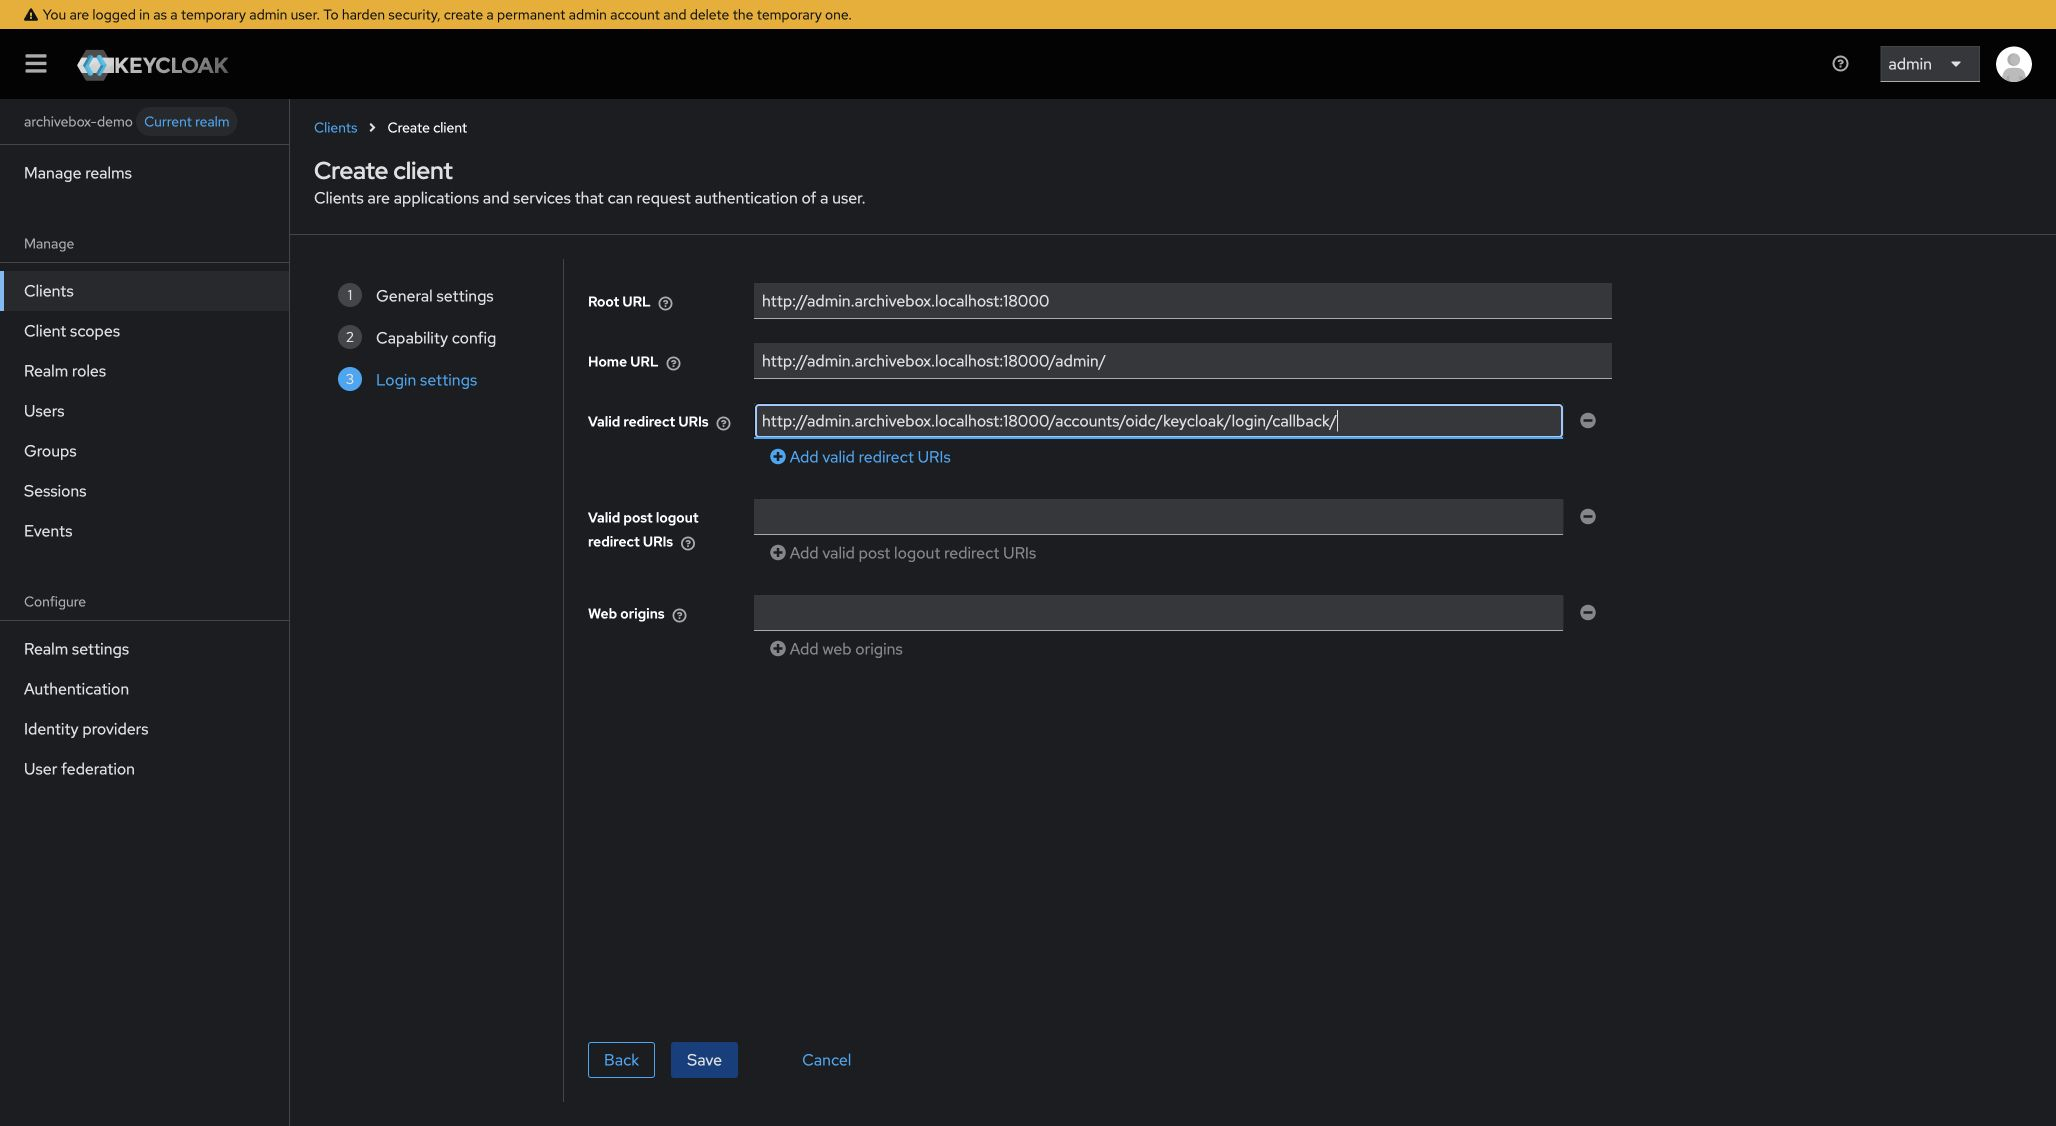
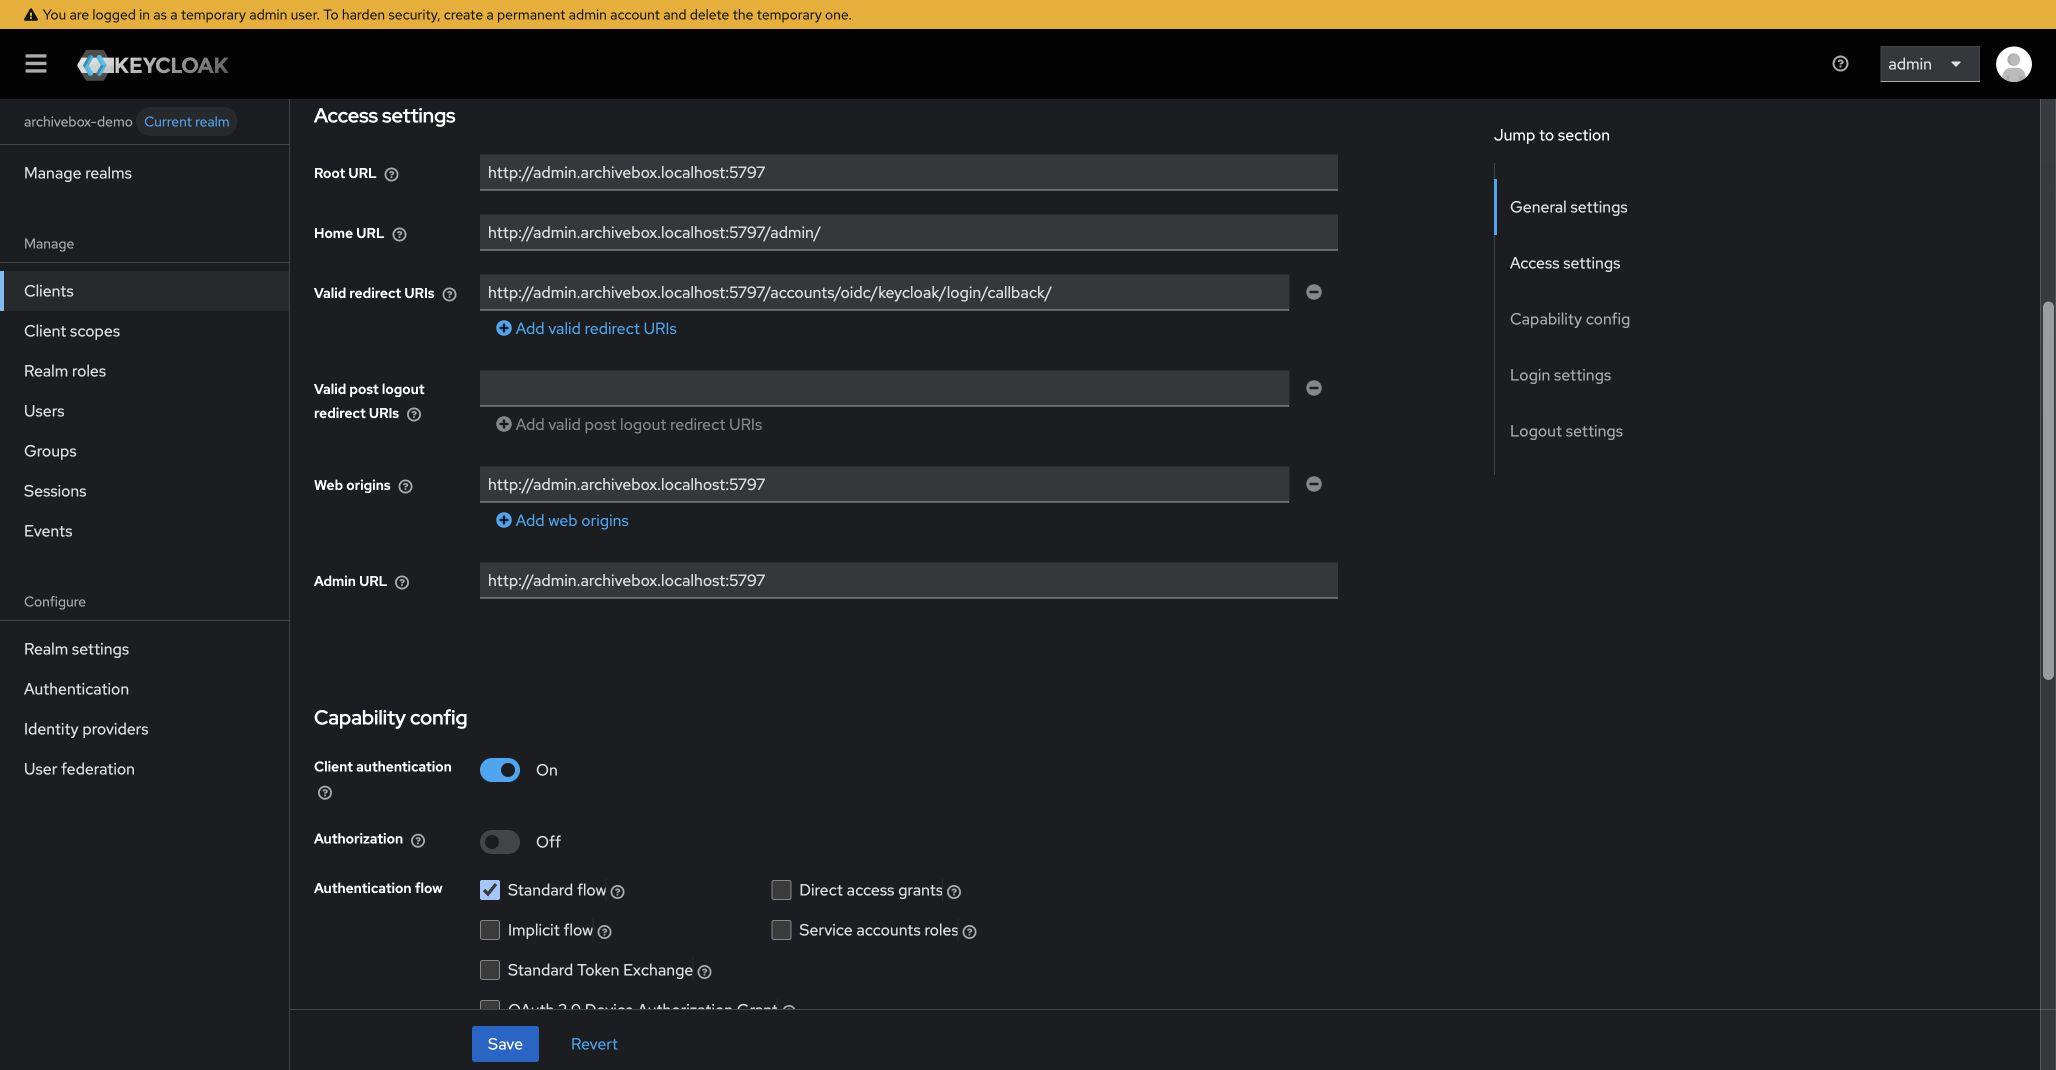
Use standard ports and document administrator-only SSO recovery

diff --git a/Setting-up-Authentication.md b/Setting-up-Authentication.md
@@ -118,7 +118,7 @@ Create a collection with `archivebox init --quick` if needed, start the server, 
 
 ![Create the first local ArchiveBox administrator](screenshots/authentication/04-first-admin.jpg)
 
-Set `BASE_URL` to your ArchiveBox address and choose `SERVER_SECURITY_MODE` before configuring your identity provider. With `safe-subdomains-fullreplay`, login uses the `admin.` subdomain. Use your server's HTTPS address wherever the instructions below show `http://admin.archivebox.localhost:18000`.
+Set `BASE_URL` to your ArchiveBox address and choose `SERVER_SECURITY_MODE` before configuring your identity provider. With `safe-subdomains-fullreplay`, login uses the `admin.` subdomain. Use your server's HTTPS address wherever the instructions below show `http://admin.archivebox.localhost:5797`.
 
 In the collection's `ArchiveBox.conf`, enable SSO and choose your enrollment policy:
 
@@ -127,11 +127,10 @@ In the collection's `ArchiveBox.conf`, enable SSO and choose your enrollment pol
 ALLAUTH_ENABLED = True
 REGISTRATION_ENABLED = True
 REGISTRATION_MODE = approval
-DEFAULT_USER_PERMISSIONS = admin
 EMAIL_VERIFICATION = none
 ```
 
-These settings require an administrator to approve each new account before it can sign in. For a closed deployment, leave `REGISTRATION_ENABLED=False` and explicitly link existing local users instead. `DEFAULT_USER_PERMISSIONS=none` creates users without admin privileges; `admin` gives new users full administration once activated. Do not combine open registration and automatic admin permissions on an unrestricted IdP.
+ArchiveBox accounts are administrators. These settings allow new SSO accounts but require an existing administrator to approve them before they can sign in. To allow only existing accounts, set `REGISTRATION_ENABLED=False` and connect each administrator's SSO identity from **Account → Connections**. Local accounts are created by an administrator; there is no public signup form.
 
 Back up an existing database before upgrading. With the same configuration/environment as the server, run `archivebox manage migrate --noinput` inside the collection, then restart the server. In Docker Compose, run `docker compose exec archivebox archivebox manage migrate --noinput`, then `docker compose restart archivebox`.
 
@@ -161,9 +160,9 @@ On **Login settings**, enter:
 
 | Field | Value |
 | --- | --- |
-| Root URL | `http://admin.archivebox.localhost:18000` |
-| Home URL | `http://admin.archivebox.localhost:18000/admin/` |
-| Valid redirect URIs | `http://admin.archivebox.localhost:18000/accounts/oidc/keycloak/login/callback/` |
+| Root URL | `http://admin.archivebox.localhost:5797` |
+| Home URL | `http://admin.archivebox.localhost:5797/admin/` |
+| Valid redirect URIs | `http://admin.archivebox.localhost:5797/accounts/oidc/keycloak/login/callback/` |
 
 Register the exact callback, including its trailing slash. Save the client, then open **Credentials** and copy the **Client Secret**.
 
@@ -183,7 +182,7 @@ Set `SOCIALACCOUNT_PROVIDERS` to the following JSON in your server environment o
       "client_id": "archivebox",
       "secret": "YOUR_CLIENT_SECRET",
       "settings": {
-        "server_url": "http://127.0.0.1:18080/realms/archivebox-demo"
+        "server_url": "http://127.0.0.1:8080/realms/archivebox-demo"
       }
     }]
   }
@@ -220,10 +219,10 @@ Create another Keycloak client with **Client type: SAML**, name `ArchiveBox SAML
 
 | Purpose | Value |
 | --- | --- |
-| Client ID / SP entity ID / metadata | `http://admin.archivebox.localhost:18000/accounts/saml/keycloak/metadata/` |
-| Valid redirect URIs | `http://admin.archivebox.localhost:18000/accounts/saml/keycloak/acs/` |
-| Master SAML Processing URL (HTTP POST ACS) | `http://admin.archivebox.localhost:18000/accounts/saml/keycloak/acs/` |
-| SLS callback, when configuring IdP logout | `http://admin.archivebox.localhost:18000/accounts/saml/keycloak/sls/` |
+| Client ID / SP entity ID / metadata | `http://admin.archivebox.localhost:5797/accounts/saml/keycloak/metadata/` |
+| Valid redirect URIs | `http://admin.archivebox.localhost:5797/accounts/saml/keycloak/acs/` |
+| Master SAML Processing URL (HTTP POST ACS) | `http://admin.archivebox.localhost:5797/accounts/saml/keycloak/acs/` |
+| SLS callback, when configuring IdP logout | `http://admin.archivebox.localhost:5797/accounts/saml/keycloak/sls/` |
 
 Leave **IDP-Initiated SSO URL name** and its relay state empty: this configuration requires SP-initiated login. The metadata endpoint can also supply your IdP's import workflow.
 
@@ -261,13 +260,13 @@ Add the `saml` entry below to the **same** `SOCIALACCOUNT_PROVIDERS` dictionary,
 {
   "saml": {
     "APPS": [{
-      "provider_id": "http://127.0.0.1:18080/realms/archivebox-demo",
+      "provider_id": "http://127.0.0.1:8080/realms/archivebox-demo",
       "name": "Keycloak SAML",
       "client_id": "keycloak",
       "settings": {
         "idp": {
-          "entity_id": "http://127.0.0.1:18080/realms/archivebox-demo",
-          "metadata_url": "http://127.0.0.1:18080/realms/archivebox-demo/protocol/saml/descriptor"
+          "entity_id": "http://127.0.0.1:8080/realms/archivebox-demo",
+          "metadata_url": "http://127.0.0.1:8080/realms/archivebox-demo/protocol/saml/descriptor"
         },
         "attribute_mapping": {
           "email": "email",
@@ -332,17 +331,14 @@ hosts may receive only the shared hint and their own scoped replay grant.
 
 #### Registration, permissions, and linking
 
-- `REGISTRATION_ENABLED=False` closes both local and provider signup. Already
-  linked users can still log in. To link an existing account, first log in locally
-  and visit `/accounts/3rdparty/`, then explicitly connect a provider.
+- `REGISTRATION_ENABLED=False` allows only existing linked SSO accounts to sign in.
+  To link an existing administrator, first log in locally and open **Account → Connections**
+  (`/accounts/3rdparty/`).
 - `REGISTRATION_ENABLED=True` with `REGISTRATION_MODE=approval` creates inactive
-  accounts. An administrator must activate them in `/admin/auth/user/` before
-  they can log in. This policy also covers automatic provider signup.
-- `REGISTRATION_MODE=open` activates new accounts immediately.
-- `DEFAULT_USER_PERMISSIONS=none` leaves staff and superuser privileges unset.
-  `admin` grants full ArchiveBox administration to every new account. Combine
-  this with approval, or restrict enrollment at a trusted IdP. This setting
-  does not change existing users or map IdP groups to roles.
+  administrator accounts through SSO. An existing administrator must activate them
+  in `/admin/auth/user/` before they can sign in.
+- `REGISTRATION_MODE=open` activates new SSO administrator accounts immediately.
+  Restrict access to the ArchiveBox application at your identity provider before enabling it.
 - A matching email does not link accounts by default. Account linking requires
   an authenticated user's explicit action. To deliberately trust provider-verified
   email for login to existing accounts, enable `SOCIALACCOUNT_EMAIL_AUTHENTICATION`.
@@ -350,12 +346,18 @@ hosts may receive only the shared hint and their own scoped replay grant.
   that association. Unverified provider emails cannot authorize this matching.
   These options grant configured trusted providers authority over local accounts.
 
-For email confirmation and password reset, configure `EMAIL_HOST`, `EMAIL_PORT`
-(default 587), `EMAIL_HOST_USER`, `EMAIL_HOST_PASSWORD`, and `DEFAULT_FROM_EMAIL`.
-TLS is enabled by default; for implicit TLS use `EMAIL_USE_SSL=True` and
-`EMAIL_USE_TLS=False`. Without `EMAIL_HOST`, mail is printed to the server console
-for development. Set `EMAIL_VERIFICATION=mandatory` when local email ownership
-must be confirmed. Provider email verification follows allauth's provider rules.
+#### Password recovery
+
+SSO users reset their passwords through their identity provider. For a local administrator,
+run `archivebox manage changepassword USERNAME` inside the collection. With Docker Compose,
+run `docker compose exec archivebox archivebox manage changepassword USERNAME`.
+
+To enable email password resets, configure `EMAIL_HOST`, `EMAIL_PORT` (default 587),
+`EMAIL_HOST_USER`, `EMAIL_HOST_PASSWORD`, and `DEFAULT_FROM_EMAIL` in `[ALLAUTH_CONFIG]`.
+**Forgot your password?** opens the email reset form when `EMAIL_HOST` is configured.
+Otherwise, it displays the administrator's SMTP setup and command-line recovery instructions.
+TLS is enabled by default; for implicit TLS set `EMAIL_USE_SSL=True` and `EMAIL_USE_TLS=False`.
+Set `EMAIL_VERIFICATION=mandatory` to require email confirmation for local logins.
 
 Logout clears the local ArchiveBox session and requires POST. It does **not**
 automatically terminate every IdP session. SAML's SLS callback is exposed, but
